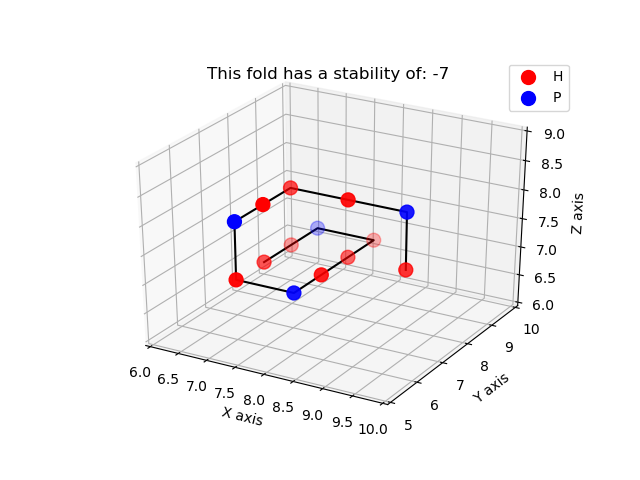
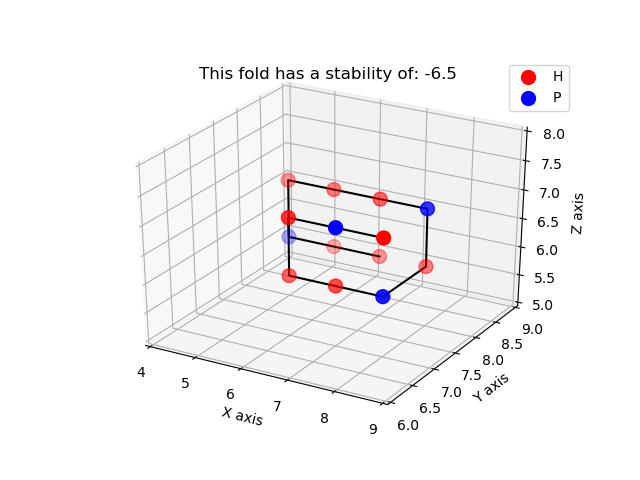
Hillclimber bug verwijdert

diff --git a/eiwitten/hillclimber.py b/eiwitten/hillclimber.py
@@ -49,7 +49,6 @@ def main():
 
 
     # prints best_fold_points and best_fold and current field
-
     print(best_fold_points)
     print(best_fold)
     print(best_positions)
@@ -115,10 +114,6 @@ def changed_amino_positions(sequence, option):
     # initialises positions list and starting coordinates of protein
     positions = []
     begin = int(ceil(len(sequence) / 2))
-
-    # appends first two positions to positions list
-    positions.append(tuple((begin, begin, begin)))
-    positions.append(tuple((begin, begin + 1, begin)))
 
     # initialises x-, y-coordinates and current direction
     x, y, z = begin, begin + 1, begin
@@ -222,9 +217,6 @@ def changed_amino_positions(sequence, option):
             return False
         positions.append(tuple((x, y, z)))
     return positions
-
-
-
 
 if __name__ == '__main__':
     main()

diff --git a/eiwitten/versie0.py b/eiwitten/versie0.py
@@ -32,7 +32,7 @@ def main():
     for aminoacid in range(len(protein.sequence) - 3):
         round_points = []
         P1 = 0.7 / (1 + 200 * 0.65 ** (aminoacid + 4)) + 0.4
-        P2 = 0.8 / (1 + 200 * 0.825 ** (aminoacid + 4)) + 0.3
+        P2 = 0.8 / (1 + 200 * 0.825 ** (aminoacid + 4)) + 0.5
         print('P1:', P1)
         print('AVG_points:', AVG_points)
         print('P2:', P2)
